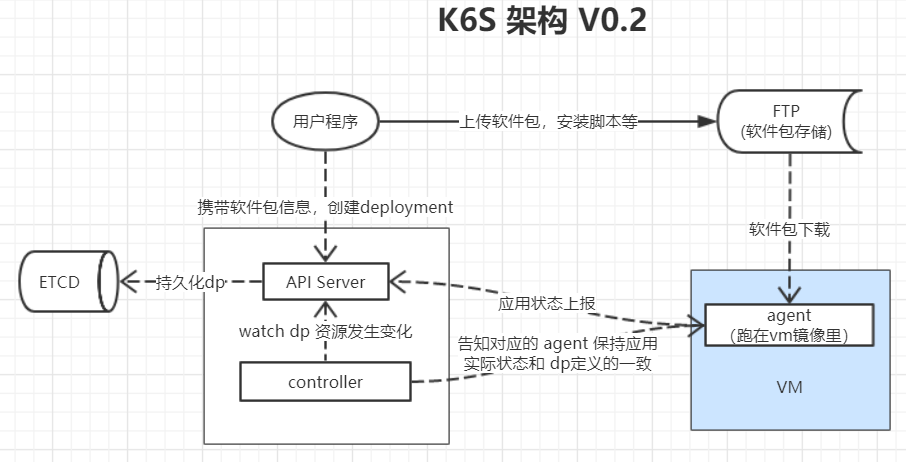
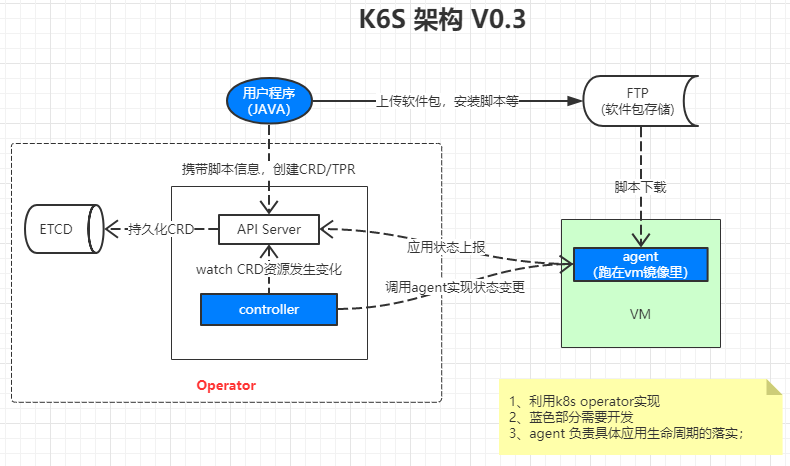
update arch; use operator

Changed region(s): [[0.0, 0.1515, 1.0, 1.0], [0.4557, 0.0, 0.7595, 0.0909]]

diff --git a/README.md b/README.md
@@ -2,6 +2,8 @@
 
 k6s 是一个类似 k8s 架构的非容器 paas 平台解决方案，提供非容器应用的生命周期管理功能。
 
+通过 operator 类似的模式实现，利用自定义 controller 操作 CRD/TPR，但是基础单元不是 pod，而是一个个 vm 上的非容器化应用。
+
 ## 项目定位
 
 容器 paas 大家第一个会想到 k8s ，非容器 paas 呢？我们希望在不久的将来，大家第一个会想到 k6s!
